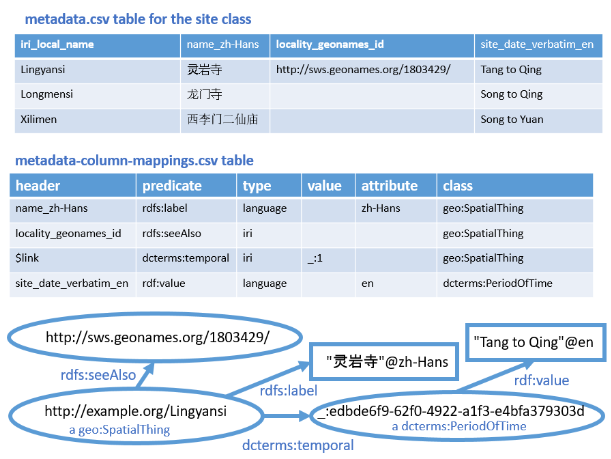
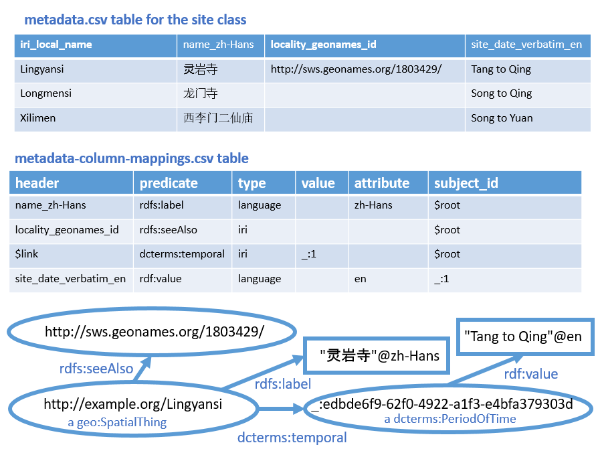
updated readme instructions based on changes in method of specifying idrefs

diff --git a/2016-fall/tang-song/readme.md b/2016-fall/tang-song/readme.md
@@ -16,13 +16,13 @@ Each cell in the table represents the value of the property represented by the c
 
 Fig. 2. Example table of classes represented by a row in the metadata table.
 
-It is possible that all of the properties represented by the columns in the metadata.csv table are properties of the root class described by the table (the religious sites in the example).  However, some properties (such as the description of dynasties represented at the site) aren't really properties of the site, but rather of another class that is associated with the root class.  In the example, each site has a one-to-one association with a particular period of time over which buildings on the site were constructed.  A second table, classes.csv, lists all of the classes  linked in a one-to-one relationship in the metadata.csv table.  The id column in this table indicates how the subject IRI for the row should be modified to form an identifier for the instance of the linked class.  The string in the id column is appended to the subject IRI as a fragment identifier (hash).  If there is no desire to mint an IRI for the instance of the associated class, it can be a blank node.  Each class whose instances are represented by a blank node must be identified by a different string following "```:_```".
+It is possible that all of the properties represented by the columns in the metadata.csv table are properties of the root class described by the table (the religious sites in the example).  However, some properties (such as the description of dynasties represented at the site) aren't really properties of the site, but rather of another class that is associated with the root class.  In the example, each site has a one-to-one association with a particular period of time over which buildings on the site were constructed.  A second table, classes.csv, lists all of the classes  linked in a one-to-one relationship in the metadata.csv table.  The id column in this table indicates how the subject IRI for the row should be modified to form an identifier for the instance of the linked class.  If the value in the id column is "$root", the IRI for an instance of that class is the unmodified subject IRI.  For instances of classes having a one-to-one relationship with the subject resource, the string in the id column is appended to the subject IRI as a fragment identifier (hash).  If there is no desire to mint an IRI for the instance of the associated class, it can be a blank node.  Each class whose instances are represented by a blank node must be identified by a different string following "```:_```".
 
 ![](https://raw.githubusercontent.com/HeardLibrary/semantic-web/master/2016-fall/tang-song/images/column-mappings.png)
 
 Fig. 3. Example mappings from the Chinese religious site metadata table to RDF graph
 
-The file metadata-column-mappings.csv contains the mappings between RDF predicates to be used in the triples and the headers of the columns in the table for the property represented by the predicate.  The table also indicates the kind of object that is represented by the cell in the row for that column.  The properties are grouped according the class of resource to which they apply by the class listed in the class column of the table.
+The file metadata-column-mappings.csv contains the mappings between RDF predicates to be used in the triples and the headers of the columns in the table for the property represented by the predicate.  The table also indicates the kind of object that is represented by the cell in the row for that column.  The properties are grouped according the subject resource to which they apply by the class listed in the subject_id column of the table.
 
 The type of object can be one of three kinds of literals (plain, language-tagged, and datatyped), an IRI, or a blank node.  A plain literal has "plain" in the type column, and empty value and attribute columns.  A language-tagged literal has "language" in the type column, the ISO 639-1 language code (optionally with country and script suffixes) to be used for the tag in the attribute column, and an empty cell in the value column.  A datatyped literal will have "datatype" in the type column, the datatype IRI in the attribute column, and an empty cell in the value column.  The datatype IRI can be abbreviated and will usually be an XML datatype in the xsd: (a.k.a. xs:) namespace, e.g. xsd:integer.  
 
@@ -30,7 +30,7 @@ If the object of the triple is an IRI, the type column has "iri". If the value a
 
 There are also cases where links need to be made without using data recorded in a column of the table.  For example, if every instance in the table should have the same value of some property, the cell in the header column should contain "$constant".  The constant value (literal or IRI) is listed in the value column.  The type and attribute columns would contain entries appropriate for the kind of object that the value represents (e.g. language-tagged literal, IRI, etc.).  
 
-The final kind of entry in the metadata-column-mappings.csv file is a link between two classes whose properties are represented by columns in the table.  Linking triples are generated by putting "$link" in the header column.  The class of the subject resource to be linked is indicated by the class column.  The class of the object resource is indicated by the value in the value column.  This value must correspond to a value in the id column of the classes.csv file.  For example, generating a geo:location link between the geo:SpatialThing and geo:Point classes shown in Fig. 2 would be accomplished by putting "geo:SpatialThing" in the class column of the metadata-column-mappings.csv file, "geo:location" in the precicate column, and "point" in the value column.  If the link is to a blank node, use the same blank node placeholder as was used in the classes.csv table (Fig. 3).  
+The final kind of entry in the metadata-column-mappings.csv file is a link between two classes whose properties are represented by columns in the table.  Linking triples are generated by putting "$link" in the header column.  The subject resource to be linked is indicated by the subject\_id column.  The id of the object resource is indicated by the value in the value column.  This value must correspond to a value in the id column of the classes.csv file.  For example, generating a geo:location link between the instances of the geo:SpatialThing and geo:Point classes shown in Fig. 2 would be accomplished by putting "$root" (the id of the geo:SpatialThing resource) in the subject\_id column of the metadata-column-mappings.csv file, "geo:location" in the precicate column, and "point" (the id of the geo:Point resource) in the value column.  If the link is to a blank node, use the same blank node placeholder as was used in the classes.csv table (Fig. 3).  
 
 Here is the RDF output in Turtle serialization that would result from applying the mapping table to the metadata table in Fig. 3.
 
@@ -103,8 +103,8 @@ _:5dfe5ff8-1340-4eef-987c-f666ba92086c
 
 ## Other files required to make the scripts work
 
-The file namespace.csv must be present in the same directory as the other CSV files.  One column of the table must be headed "curie" and contain the compact IRI (i.e. namespace abbreviation), without colon, for each IRI that is abbreviated in the metadata.  The other column muse be headed "value" and contain the unabbreviated value of the IRI that is abbreviated by the CURIE.  
+The file namespace.csv must be present in the same directory as the other CSV files.  One column of the table must be headed "curie" and contain the compact IRI (CURIE, i.e. namespace abbreviation), without colon, for each IRI that is abbreviated in the metadata.  The other column muse be headed "value" and contain the unabbreviated value of the IRI that is abbreviated by the CURIE.  
 
 CURIEs for several IRIs must be present in the table since the scripts themselves generate IRIs that use those CURIEs.  Those CURIEs are: rdf (http://www.w3.org/1999/02/22-rdf-syntax-ns#), rdfs (http://www.w3.org/2000/01/rdf-schema#), xsd (http://www.w3.org/2001/XMLSchema#), and dc (http://purl.org/dc/elements/1.1/). It does not hurt to include CURIEs that are not represented in the data, but failing to include CURIEs that are represented in the data may result in errors.
 
-The file constants.csv contains strings that may vary from user to user.  They are include in this file to avoid hard-coding them in the scripts.  The column header is an abbreviation for the constant and the first row below the headers contains the values. "domainRoot" is IRI to be appended to the local name part of resource IRIs.  In Fig. 4, the domainRoot "http://example.org/" was appended to the local name "Longxingsi" to create the IRI for the site instance (geo:SpatialThing instance).  "documentClass" is the rdf:type value for the RDF document that contains the serialized triples.  The default is foaf:Document.  The "creator" value is used as the value for the dc:creator property of the RDF document.  "outputDirectory" is currently not used, but in the future may be used to specify the directory where the output can be saved as a file.
+The file constants.csv contains strings that may vary from user to user.  They are include in this file to avoid hard-coding them in the scripts.  The column header is an abbreviation for the constant and the first row below the headers contains the values. "domainRoot" is IRI to be appended to the local name part of resource IRIs.  In Fig. 4, the domainRoot "http://example.org/" was appended to the local name "Longxingsi" to create the IRI for the site instance (geo:SpatialThing instance).  "documentClass" is the rdf:type value for the RDF document that contains the serialized triples.  The default is foaf:Document.  The "creator" value is used as the value for the dc:creator property of the RDF document.  "outputDirectory" is used to specify the directory where the output can be saved as a file.
